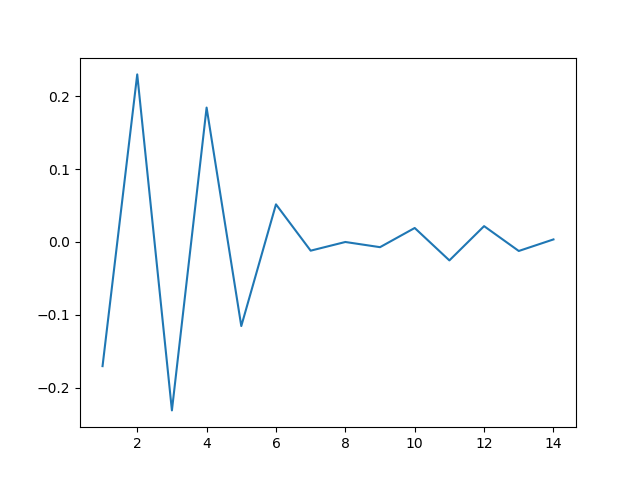
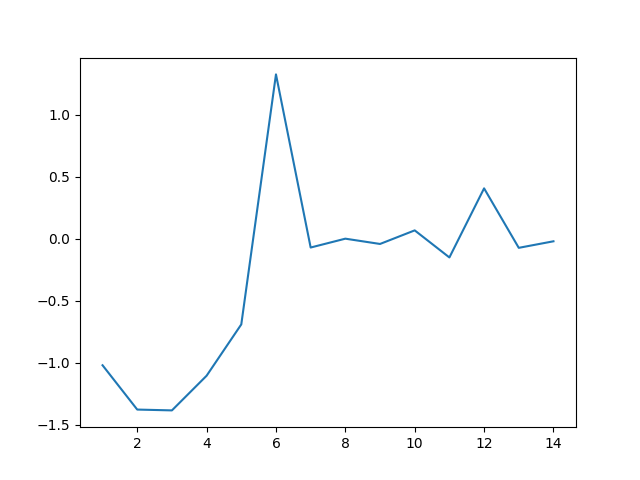
figure 6 testing completed (positively)

diff --git a/fig6-all.py b/fig6-all.py
@@ -1,0 +1,14 @@
+import numpy as np
+from matplotlib import pyplot as plt
+from scipy.special import eval_legendre as lg
+import re
+
+l = list(range(1,15))
+nums = []
+with open('fig6-all.txt', 'r') as f:
+    for i in f:
+        nums.append(float(i))
+
+for i in range(5):
+    plt.plot(l, nums[14*i:14*(i+1)])
+plt.savefig('fig6-all.png')
